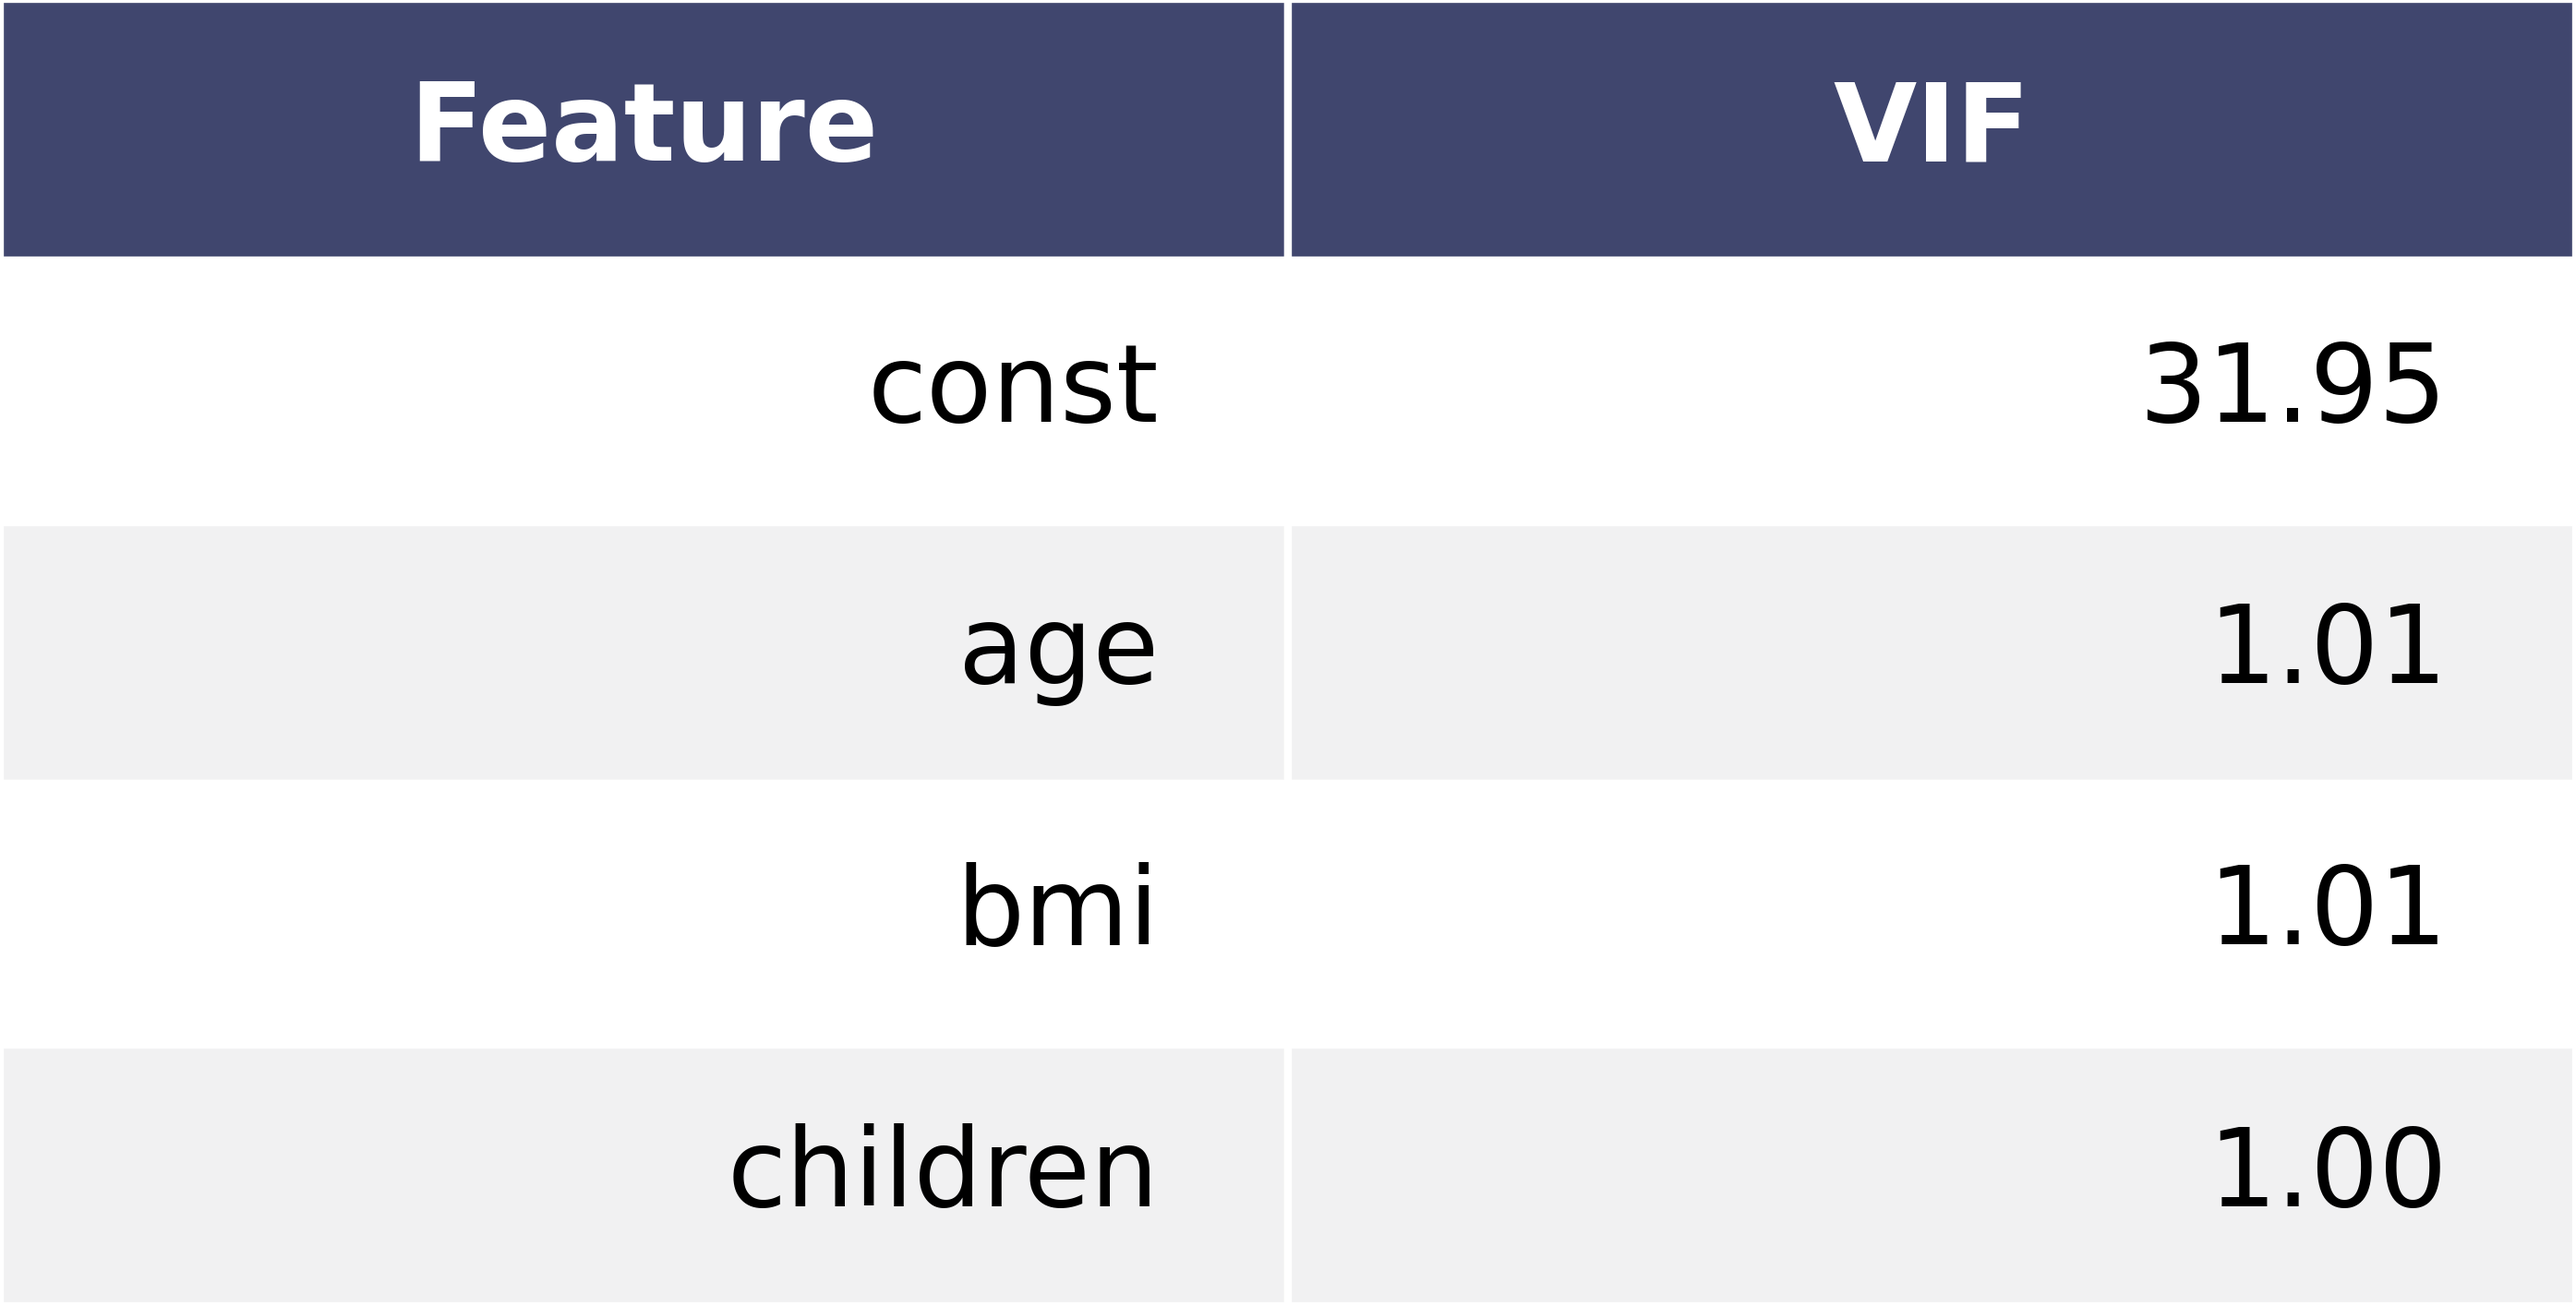
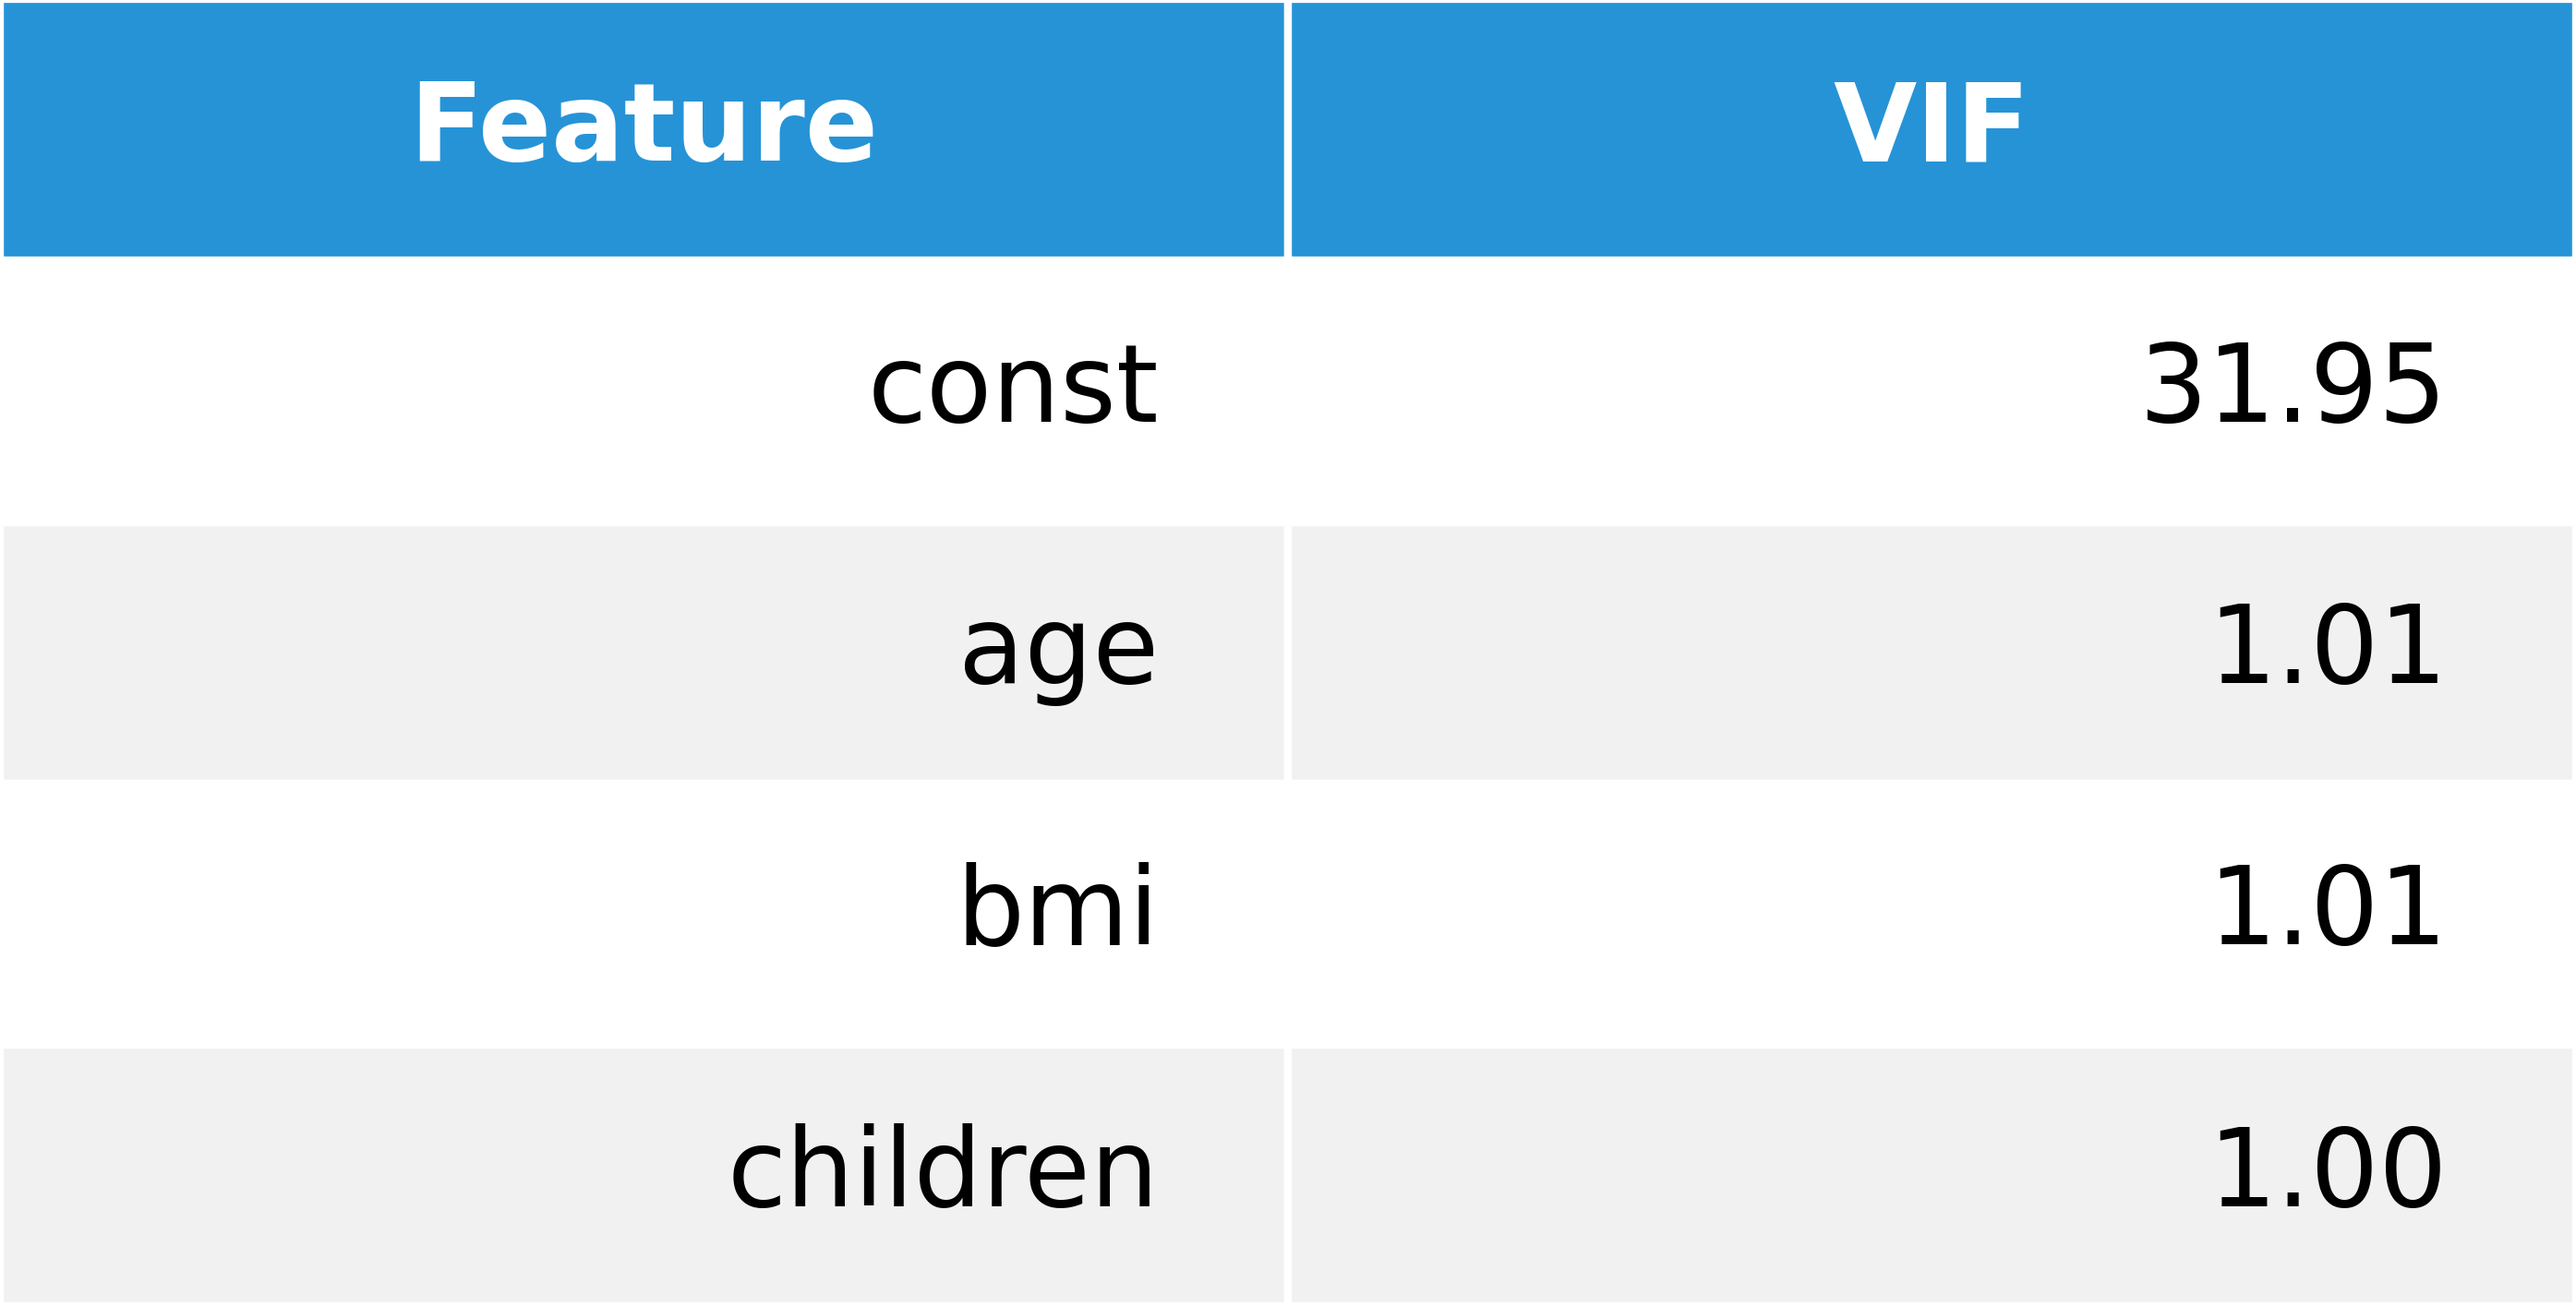
updated color table

Changed region(s): [[0.0, 0.0, 1.0, 0.2177]]

diff --git a/cost_eda.py b/cost_eda.py
@@ -74,7 +74,7 @@ plt.show()
 # Row indeces normally not included in table image, so I inserted them as the first column
 feature_summary.insert(0, 'Feature', feature_summary.index)
 
-ax = dh.render_mpl_table(feature_summary, header_columns=0, col_width=2.9, header_color='#2693d7')
+ax = dh.render_mpl_table(feature_summary, header_columns=0, col_width=2.9)
 ax.set_title('Feature Summary:', fontdict={'fontsize':26}, loc='left', weight='bold', pad=20)
 #dh.save_image('feature_summary', eda_output_dir, dpi=600, bbox_inches='tight', pad_inches=0)
 plt.show()

diff --git a/cost_modeling.py b/cost_modeling.py
@@ -513,7 +513,7 @@ vif['VIF'] = vif['VIF'].map('{:,.2f}'.format)
 
 # Create table image
 dh.render_mpl_table(vif)
-#dh.save_image('vif_table', models_output_dir, dpi=600, bbox_inches='tight', pad_inches=0)
+dh.save_image('vif_table', models_output_dir, dpi=600, bbox_inches='tight', pad_inches=0)
 plt.show()
 
 
